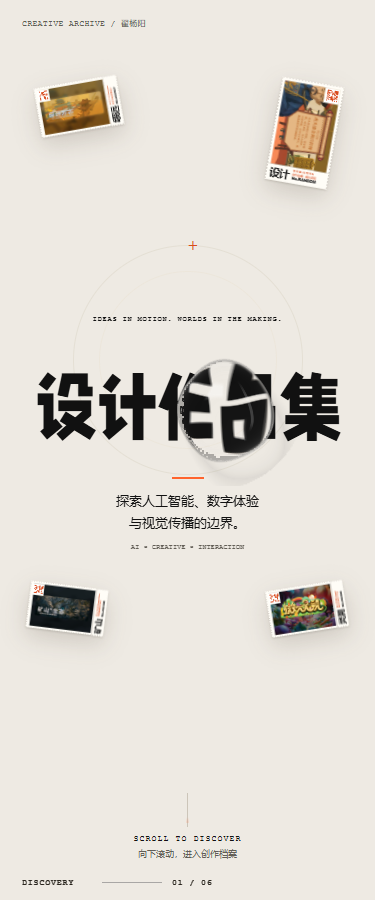
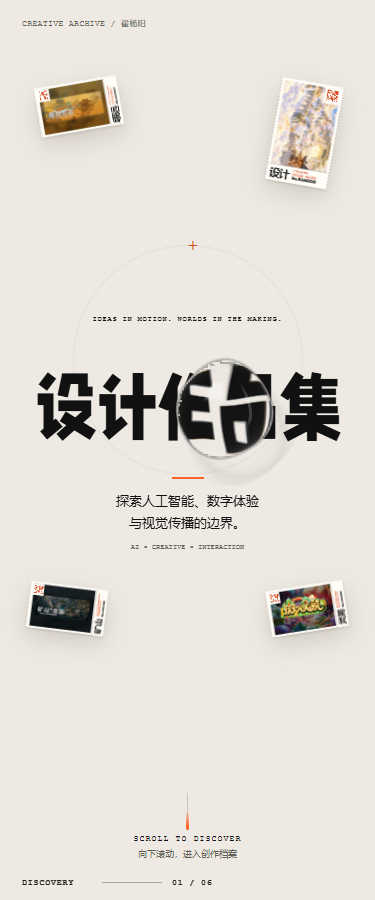
色散增加

diff --git a/New/js/components/GlassTitle.jsx b/New/js/components/GlassTitle.jsx
@@ -20,7 +20,7 @@ export function GlassTitle() {
     {fontReady && !reduced && <div className="hero-glass-title__effect" aria-hidden="true">
       <FluidGlass text="设计作品集" fontFamily="PortfolioTitle, Microsoft YaHei, sans-serif"
         fontWeight={400} textColor="#111111" shape="blob" size={190}
-        interaction="follow" refraction={.85} dispersion={.18} reflection={.75}
+        interaction="follow" refraction={.85} dispersion={.85} reflection={.75}
         shadow={.18} elevation={.25} wobble={.4} morphOnClick={false}
         maxDevicePixelRatio={1.5} />
     </div>}
